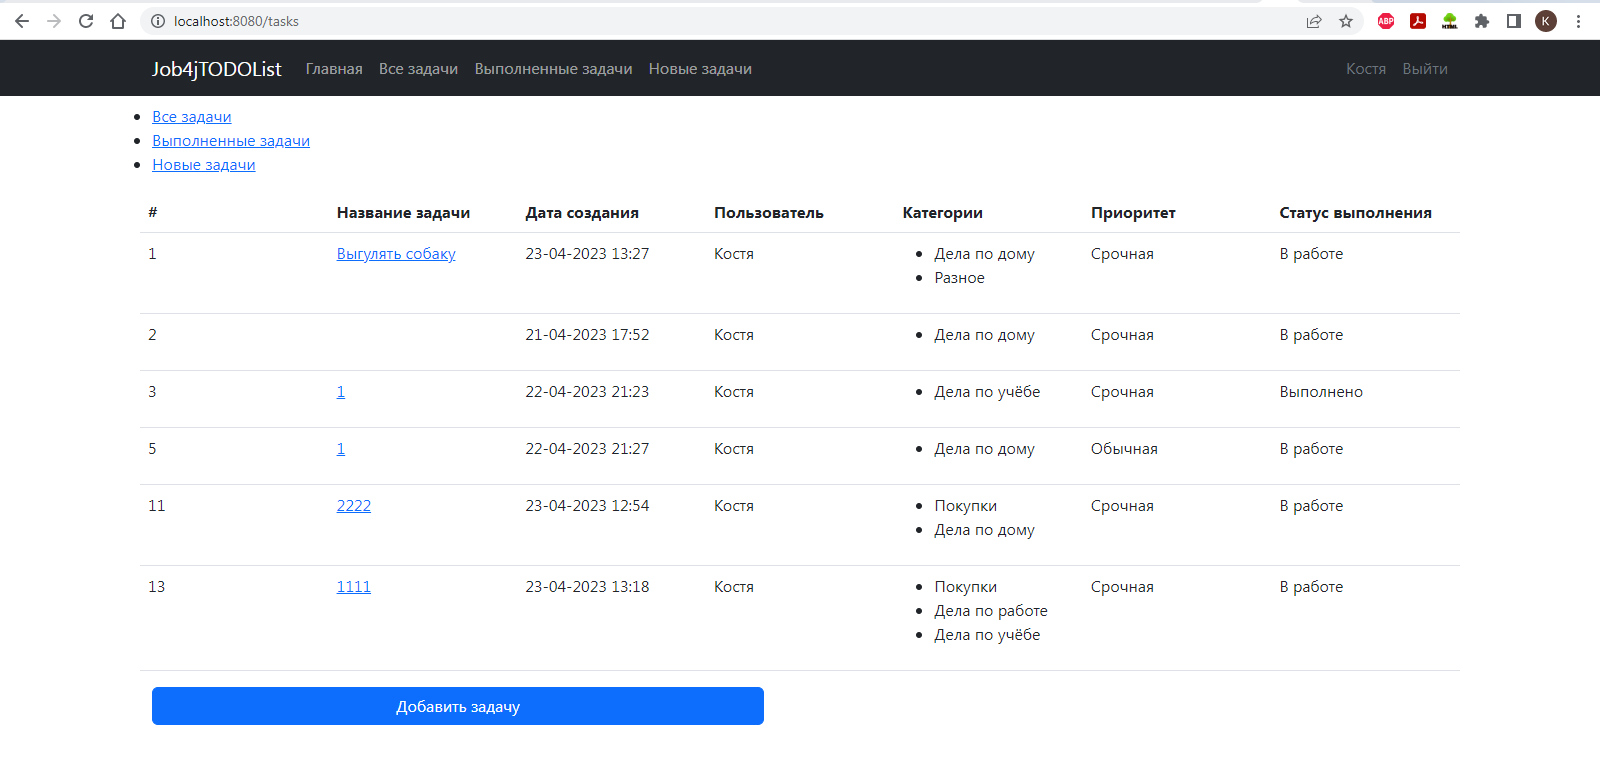
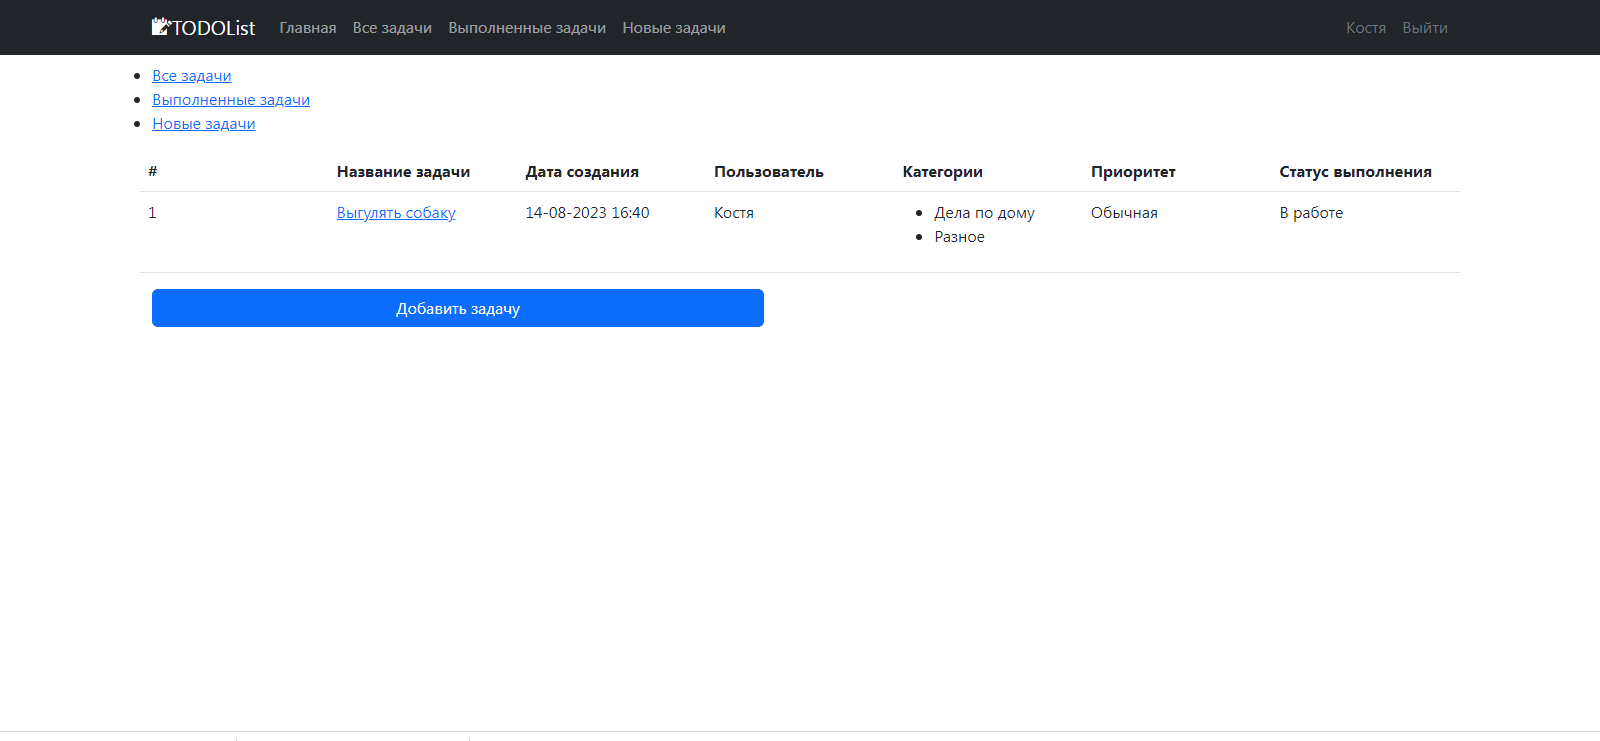
fix README.md

diff --git a/src/main/resources/templates/index.html b/src/main/resources/templates/index.html
@@ -22,7 +22,7 @@
 <div class="container-fluid p-0">
     <nav class="navbar navbar-expand-lg navbar-dark bg-dark">
         <div class="container">
-            <a class="navbar-brand" href="/">Job4jTODOList</a>
+            <a class="navbar-brand" href="/">📝TODOList</a>
             <div class="collapse navbar-collapse">
                 <div class="navbar-nav me-auto">
                     <a class="nav-item nav-link active" href="/">Главная</a>

diff --git a/src/main/resources/templates/errors/404.html b/src/main/resources/templates/errors/404.html
@@ -22,7 +22,7 @@
 <div class="container-fluid p-0">
     <nav class="navbar navbar-expand-lg navbar-dark bg-dark">
         <div class="container">
-            <a class="navbar-brand" href="/">Job4jTODOList</a>
+            <a class="navbar-brand" href="/">📝TODOList</a>
             <div class="collapse navbar-collapse">
                 <div class="navbar-nav me-auto">
                     <a class="nav-item nav-link" href="/">Главная</a>

diff --git a/src/main/resources/templates/tasks/create.html b/src/main/resources/templates/tasks/create.html
@@ -22,7 +22,7 @@
 <div class="container-fluid p-0">
     <nav class="navbar navbar-expand-lg navbar-dark bg-dark">
         <div class="container">
-            <a class="navbar-brand" href="/">Job4jTODOList</a>
+            <a class="navbar-brand" href="/">📝TODOList</a>
             <div class="collapse navbar-collapse">
                 <div class="navbar-nav me-auto">
                     <a class="nav-item nav-link" href="/">Главная</a>

diff --git a/src/main/resources/templates/tasks/list.html b/src/main/resources/templates/tasks/list.html
@@ -32,7 +32,7 @@
 <div class="container-fluid p-0">
     <nav class="navbar navbar-expand-lg navbar-dark bg-dark">
         <div class="container">
-            <a class="navbar-brand" href="/">Job4jTODOList</a>
+            <a class="navbar-brand" href="/">📝TODOList</a>
             <div class="collapse navbar-collapse">
                 <div class="navbar-nav me-auto">
                     <a class="nav-item nav-link" href="/">Главная</a>

diff --git a/src/main/resources/templates/tasks/one.html b/src/main/resources/templates/tasks/one.html
@@ -22,7 +22,7 @@
 <div class="container-fluid p-0">
     <nav class="navbar navbar-expand-lg navbar-dark bg-dark">
         <div class="container">
-            <a class="navbar-brand" href="/">Job4jTODOList</a>
+            <a class="navbar-brand" href="/">📝TODOList</a>
             <div class="collapse navbar-collapse">
                 <div class="navbar-nav me-auto">
                     <a class="nav-item nav-link" href="/">Главная</a>

diff --git a/src/main/resources/templates/tasks/update.html b/src/main/resources/templates/tasks/update.html
@@ -22,7 +22,7 @@
 <div class="container-fluid p-0">
     <nav class="navbar navbar-expand-lg navbar-dark bg-dark">
         <div class="container">
-            <a class="navbar-brand" href="/">Job4jTODOList</a>
+            <a class="navbar-brand" href="/">📝TODOList</a>
             <div class="collapse navbar-collapse">
                 <div class="navbar-nav me-auto">
                     <a class="nav-item nav-link" href="/">Главная</a>

diff --git a/src/main/resources/templates/users/login.html b/src/main/resources/templates/users/login.html
@@ -22,7 +22,7 @@
 <div class="container-fluid p-0">
     <nav class="navbar navbar-expand-lg navbar-dark bg-dark">
         <div class="container">
-            <a class="navbar-brand" href="/">Job4jTODOList</a>
+            <a class="navbar-brand" href="/">📝TODOList</a>
             <div class="collapse navbar-collapse">
                 <div class="navbar-nav me-auto">
                     <a class="nav-item nav-link" href="/">Главная</a>

diff --git a/src/main/resources/templates/users/register.html b/src/main/resources/templates/users/register.html
@@ -22,7 +22,7 @@
 <div class="container-fluid p-0">
     <nav class="navbar navbar-expand-lg navbar-dark bg-dark">
         <div class="container">
-            <a class="navbar-brand" href="/">Job4jTODOList</a>
+            <a class="navbar-brand" href="/">📝TODOList</a>
             <div class="collapse navbar-collapse">
                 <div class="navbar-nav me-auto">
                     <a class="nav-item nav-link" href="/">Главная</a>

diff --git a/src/main/java/ru/job4j/todo/controller/UserController.java b/src/main/java/ru/job4j/todo/controller/UserController.java
@@ -6,13 +6,9 @@ import org.springframework.ui.Model;
 import org.springframework.web.bind.annotation.*;
 import ru.job4j.todo.model.User;
 import ru.job4j.todo.service.SimpleUserService;
-import ru.job4j.todo.service.UserService;
 
 import javax.servlet.http.HttpServletRequest;
 import javax.servlet.http.HttpSession;
-import java.time.ZoneId;
-import java.time.ZonedDateTime;
-import java.util.ArrayList;
 import java.util.List;
 import java.util.Optional;
 import java.util.TimeZone;

diff --git a/README.md b/README.md
@@ -1,20 +1,19 @@
-## Проект "АвтоМаг". Сайт по продаже машин.
+## Проект "TODOlist". Аналог ежедневника.
 
 
 ## Описание проекта: 
-#### На сайте могут добавляться объявления. В объявлении могут быть следующие параметры: описание, марка машины,
-тип кузова, фото. Объявление имеет статус продано или нет.
+#### Пользователь может (если он зарегистрирован), добавлять задания, помечать их как выполненные, 
+удалять, редактировать.
 
 ## Стек технологий:
 - Java 17
-- Spring Boot version 2.7.6
+- Spring Boot Web, Test
 - Thymeleaf
 - Liquibase
 - Maven 3.1.2.
-- Sql2o version 1.6.0
 - PostgreSQL 10
 - H2
-- jcip
+- lombok
 
 ## Требования к окружению:
 - Java 17
@@ -33,23 +32,21 @@ mvn spring-boot:run
 ```
 
 ## Взаимодействие с приложением:
-**Главная страница.**
-![](files/index.png)
 
 **Список всех задач.**
 ![](files/alltasks.png)
 
-**Список новых задач(задач в работе).**
-![](files/newtasks.png)
-
-**Список выполненных задач.**
-![](files/tasksdone.png)
-
 **Внутри конкретной задачи.**
-![](files/taskone.png)
+![](files/inside task.png)
 
 **Страница редактирования.**
 ![](files/update.png)
+
+**Страница входа.**
+![](files/login.png)
+
+**Страница регистрации.**
+![](files/registration.png)
 
 ### Контакты для связи: 
 #### telegram - @avdeev_konst
